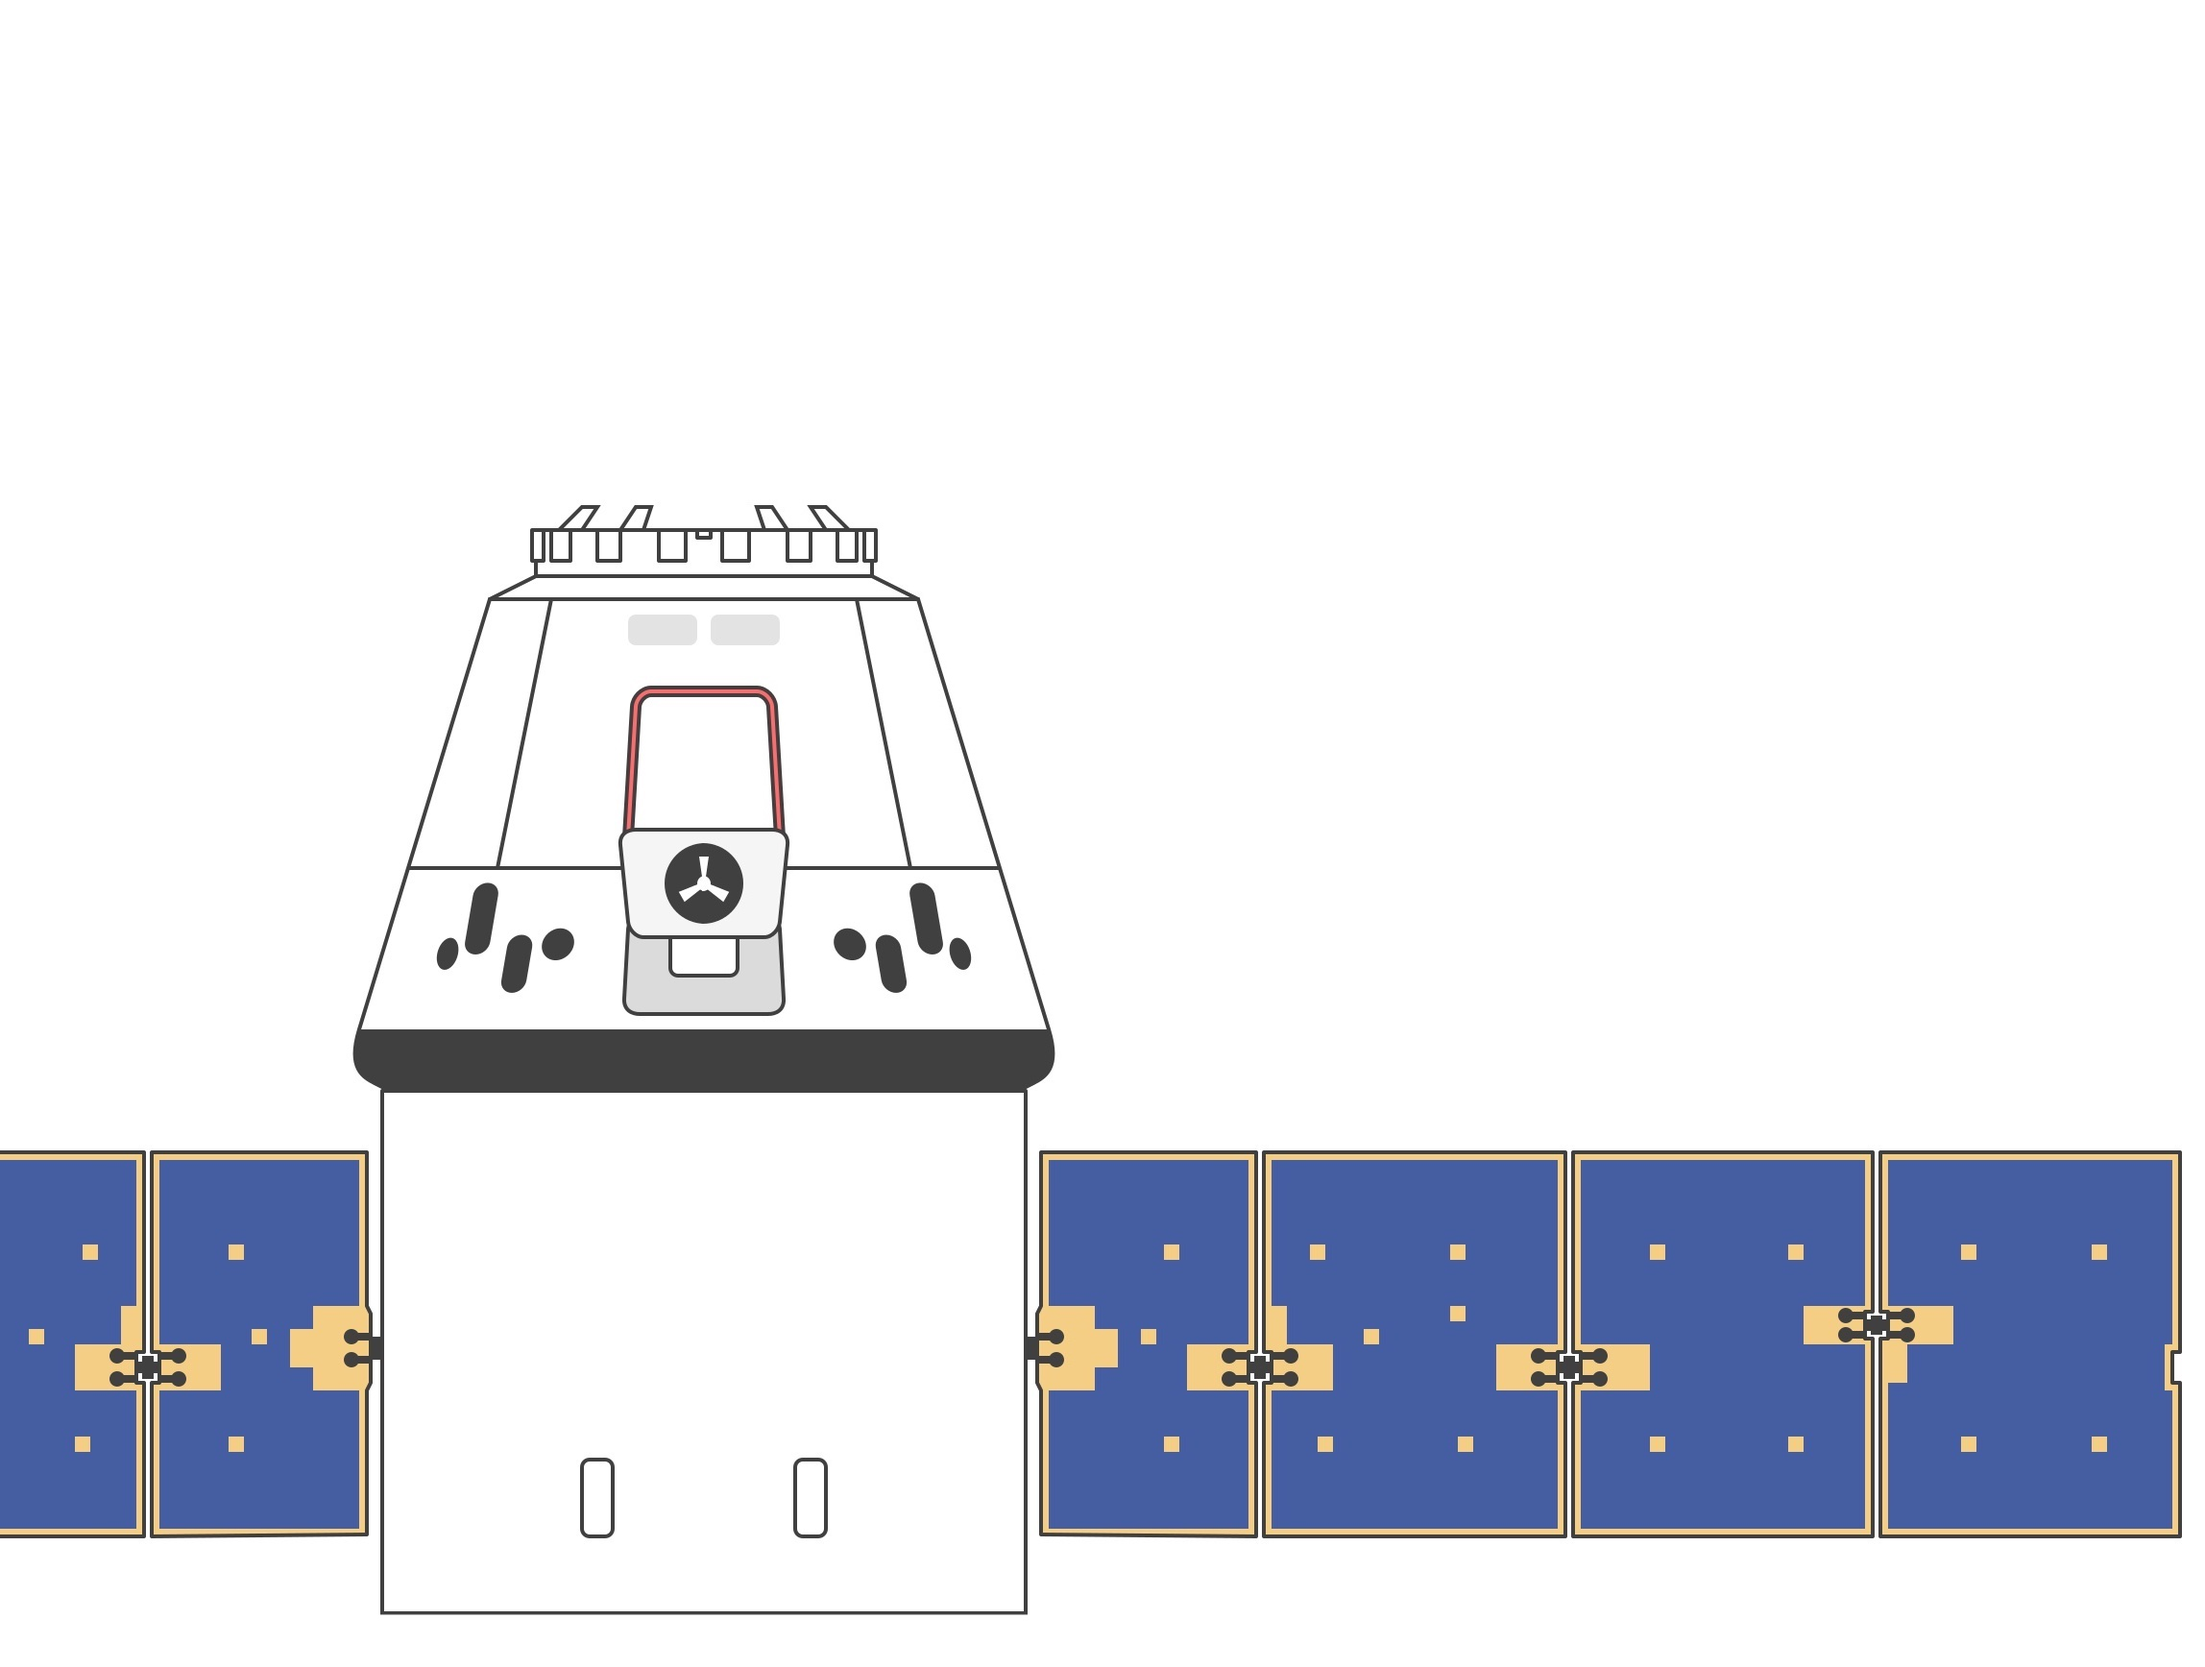
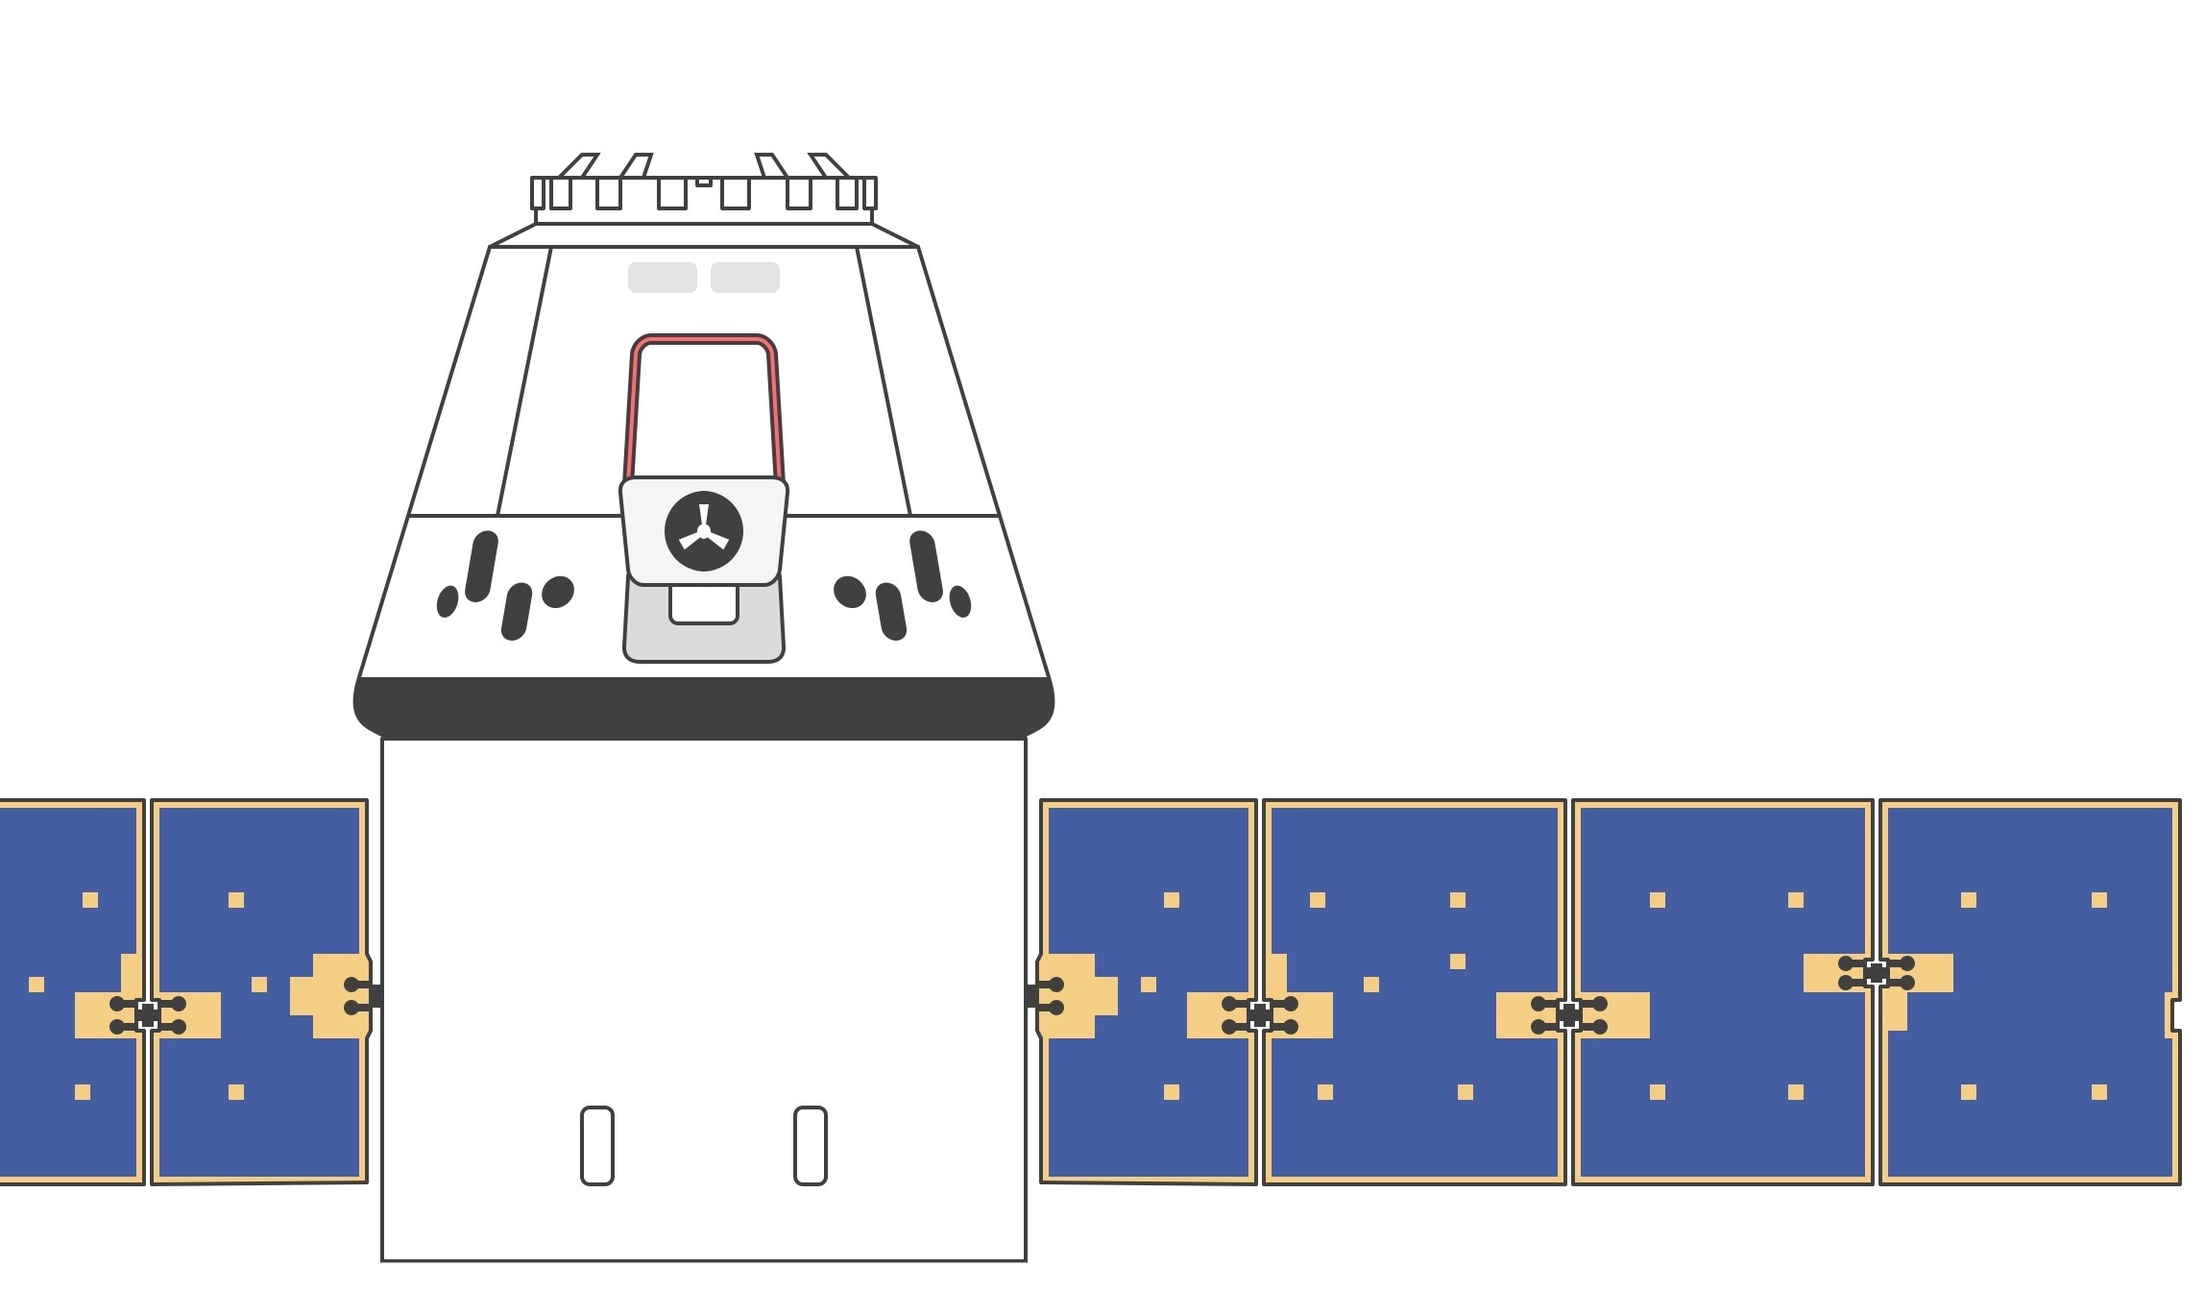
Work on module diagram formatting continues

diff --git a/javascript/modules/initialSpaceXCapsule.js b/javascript/modules/initialSpaceXCapsule.js
@@ -5,31 +5,31 @@ export function initializeSpaceXCapsule() {
     
     const img = document.createElement("img");
     img.src = "spacex-dragon1-diagram final.jpg";
-    img.style.height = "350px";
-    img.style.width = "auto";
+    img.style.height = "auto";
+    img.style.width = "460px";
 
     const imageContainer = document.createElement("div");
+    imageContainer.id = "spacex-capsule";
     imageContainer.style.position = "relative";
     imageContainer.style.display = "inline-block";
-    imageContainer.style.height = "350px";
     imageContainer.appendChild(img);
 
-    const equipLeftAlign = "60%"
+    const equipLeftAlign = "60%";
     
     const textPoints = [
-        { text: "[ CAPSULE ]", bottom: "60%", left: "10%" },
-        { text: "[ TRUNK ]", bottom: "23%", left: "25%" },
-        { text: "[ AIRLOCK ]", bottom: "80%", left: equipLeftAlign },
-        { text: "[ FRONT DOOR ]", bottom: "70%", left: equipLeftAlign },
-        { text: "[ SENSOR BAY ]", bottom: "60%", left: equipLeftAlign },
-        { text: "[ DRACO (RCS) ]", bottom: "50%", left: equipLeftAlign },
-        { text: "[ UMBILICAL ]", bottom: "40%", left: equipLeftAlign },
-        { text: "[ BATTERIES ]", bottom: "30%", left: equipLeftAlign },
-        { text: "[ SOLAR ARRAY ]", bottom: "0%", left: equipLeftAlign }
-        // Add more as needed
-    ]
+        { text: "[ CAPSULE ]", bottom: "70%", left: "10%", targetX: 100, targetY: 200 },
+        { text: "[ TRUNK ]", bottom: "30%", left: "25%", targetX: 100, targetY: 200 },
+        { text: "[ AIRLOCK ]", bottom: "80%", left: equipLeftAlign, targetX: 100, targetY: 200 },
+        { text: "[ FRONT DOOR ]", bottom: "70%", left: equipLeftAlign, targetX: 100, targetY: 200 },
+        { text: "[ SENSOR BAY ]", bottom: "60%", left: equipLeftAlign, targetX: 100, targetY: 200 },
+        { text: "[ DRACO (RCS) ]", bottom: "50%", left: equipLeftAlign, targetX: 100, targetY: 200 },
+        { text: "[ UMBILICAL ]", bottom: "40%", left: equipLeftAlign, targetX: 100, targetY: 200 },
+        { text: "[ BATTERIES ]", bottom: "30%", left: equipLeftAlign, targetX: 100, targetY: 200 },
+        { text: "[ SOLAR ARRAY ]", bottom: "0", left: equipLeftAlign, targetX: 100, targetY: 200 }
+    ];
 
-    textPoints.forEach(point => {
+    // Add text points not aligned with equipLeftAlign to the image
+    textPoints.filter(point => point.left !== equipLeftAlign).forEach(point => {
         const textPoint = document.createElement("div");
         textPoint.className = "text-point";
         textPoint.style.position = "absolute";
@@ -39,32 +39,110 @@ export function initializeSpaceXCapsule() {
                 textPoint.style[styleKey] = point[styleKey];
             }
         });
-        
+
         textPoint.style.fontSize = "12px";
         textPoint.textContent = point.text;
         imageContainer.appendChild(textPoint);
     });
-    
+
     container.appendChild(imageContainer);
 
-    const line = document.createElement("div");
-    line.className = "line";
-    container.appendChild(line);
+    // Create the canvas for drawing lines
+    const canvas = document.createElement("canvas");
+    canvas.style.position = "absolute";
+    canvas.style.left = "0";
+    canvas.style.top = "0";
+    canvas.width = img.offsetWidth;  // Set canvas width to image width
+    canvas.height = img.offsetHeight;  // Set canvas height to image height
+    container.appendChild(canvas);
+
+    const ctx = canvas.getContext("2d");  // Get the canvas 2D context
+
+    // Create the SVG container for lines
+    // const svg = document.createElementNS("http://www.w3.org/2000/svg", "svg");
+    // svg.style.position = "absolute";
+    // svg.style.left = "0";
+    // svg.style.top = "0";
+    // svg.style.width = "100%";
+    // svg.style.height = "100%";
+    // container.appendChild(svg);
+
+    // Add left-aligned points to a separate container
+    const leftAlignContainer = document.createElement("div");
+    leftAlignContainer.id = "left-align-container";
+    leftAlignContainer.style.position = "absolute";
+    leftAlignContainer.style.left = equipLeftAlign;
+    leftAlignContainer.style.top = "10%";
+
+    textPoints.filter(point => point.left === equipLeftAlign).forEach(point => {
+        const leftAlignItem = document.createElement("div");
+        leftAlignItem.className = "left-align-item";
+        leftAlignItem.textContent = point.text;
+        leftAlignContainer.appendChild(leftAlignItem);
+
+        const textElement = leftAlignItem;
+        const horizontalDistance = 100;
+        const lineElement = drawLineToPoint(container, textElement, point.targetX, point.targetY, horizontalDistance, ctx);
+        imageContainer.appendChild(lineElement);
+        // drawLineToPoint(container, textElement, point.targetX, point.targetY, horizontalDistance, svg);
+    });
+
+    imageContainer.appendChild(leftAlignContainer);
+
+    // const line = document.createElement("div");
+    // line.className = "line";
+    // container.appendChild(line);
 }
 
-function drawLineToPoint(textElement, targetX, targetY, horizontalDistance) {
+function drawLineToPoint(container, textElement, targetX, targetY, horizontalDistance, ctx) {
     const textRect = textElement.getBoundingClientRect();
     const startX = textRect.left + textRect.width / 2;
     const startY = textRect.top + textRect.height / 2;
 
+    const containerRect = container.getBoundingClientRect();
+    
+    const adjustedStartX = startX - containerRect.left;
+    const adjustedStartY = startY - containerRect.top;
+
     // Determine where the line should start bending horizontally
-    const bendX = startX + horizontalDistance;
+    const bendX = adjustedStartX + horizontalDistance;
+
+     // Begin drawing the path on the canvas
+     ctx.beginPath();
+     ctx.moveTo(adjustedStartX, adjustedStartY);  // Start at the middle of the text
+     ctx.lineTo(bendX, adjustedStartY);  // Draw horizontally
+     ctx.lineTo(bendX, targetY);  // Bend the line vertically
+     ctx.lineTo(targetX, targetY);  // Final target position
+ 
+     // Apply styling to the path
+     ctx.strokeStyle = "black";
+     ctx.lineWidth = 2;
+     ctx.stroke();  // Draw the path
+ 
+     // Create and return a new DOM element representing the line
+     const lineElement = document.createElement("div");
+     lineElement.className = "line-element";  // You can style this as needed
+     lineElement.style.position = "absolute";
+     lineElement.style.left = `${adjustedStartX}px`;
+     lineElement.style.top = `${adjustedStartY}px`;
+     lineElement.style.width = `${horizontalDistance}px`;
+     lineElement.style.height = `${targetY - adjustedStartY}px`;
+     lineElement.style.borderLeft = "2px solid black"; // You can modify this to reflect line style
+     lineElement.style.transform = `rotate(${Math.atan2(targetY - adjustedStartY, targetX - bendX)}rad)`;
+    //  lineElement.id = lineId;  // Give the line a unique id based on its text point
+ 
+     return lineElement;
 
     // Create the path: horizontal line up to bendX, then diagonal line to target
-    const linePath = `M${startX} ${startY} H${bendX} L${bendX} ${targetY} L${targetX} ${targetY}`;
+    // const linePath = `M${startX} ${startY} H${bendX} L${bendX} ${targetY} L${targetX} ${targetY}`;
 
-    const line = document.getElementById("line");
-    line.setAttribute("d", linePath);
+    // const path = document.createElementNS("http://www.w3.org/2000/svg", "path");
+    // path.setAttribute("d", linePath);
+    // path.setAttribute("stroke", "black");  // Line color
+    // path.setAttribute("stroke-width", "2");
+    // path.setAttribute("fill", "transparent");
+    
+    // svg.appendChild(path); // Append the path to the SVG
 }
 
 // // Example usage

diff --git a/stylesheets/spacexCapsuleLayout.css b/stylesheets/spacexCapsuleLayout.css
@@ -1,0 +1,36 @@
+/* spacexCapsuleLayout.css */
+
+.text-point {
+    position: absolute;
+    background-color: rgba(255, 255, 255, 0.7);
+    color: #000000;
+    padding: 5px;
+    border-radius: 3px;
+    transform: translate(-50%, -50%);
+}
+
+.line {
+    position: absolute;
+    /* top: 25%;
+    left: 50%; */
+    width: 1px;
+    height: 50px;
+    background-color: #fff;
+    transform: translateX(-50%);
+}
+
+#left-align-container {
+    display: grid;
+    flex-direction: column;
+    align-items: flex-start;
+    width: fit-content;
+}
+
+.left-align-item {
+    display: inline-block;
+    font-size: 12px;
+    background-color: #fff;
+    color: #000;
+    margin-bottom: 5px;
+    text-align: left;
+}

diff --git a/stylesheets/stationLayout.css b/stylesheets/stationLayout.css
@@ -20,29 +20,8 @@
 #station-container {
     position: relative;
     display: inline-block;
-}
-
-#station-container img {
-    width: 100%;
-}
-
-.text-point {
-    position: absolute;
-    background-color: rgba(0, 0, 0, 0.7);
-    color: #fff;
-    padding: 5px;
-    border-radius: 3px;
-    transform: translate(-50%, -50%);
-}
-
-.line {
-    position: absolute;
-    /* top: 25%;
-    left: 50%; */
-    width: 1px;
-    height: 50px;
-    background-color: #fff;
-    transform: translateX(-50%);
+    /* height: 350px; */
+    /* overflow: hidden; */
 }
 
 #station-layout-grid {

diff --git a/stylesheets/core.css b/stylesheets/core.css
@@ -11,3 +11,4 @@
 @import "salvage.css";
 @import "stationLayout.css";
 @import "equipment.css";
+@import "spacexCapsuleLayout.css";
